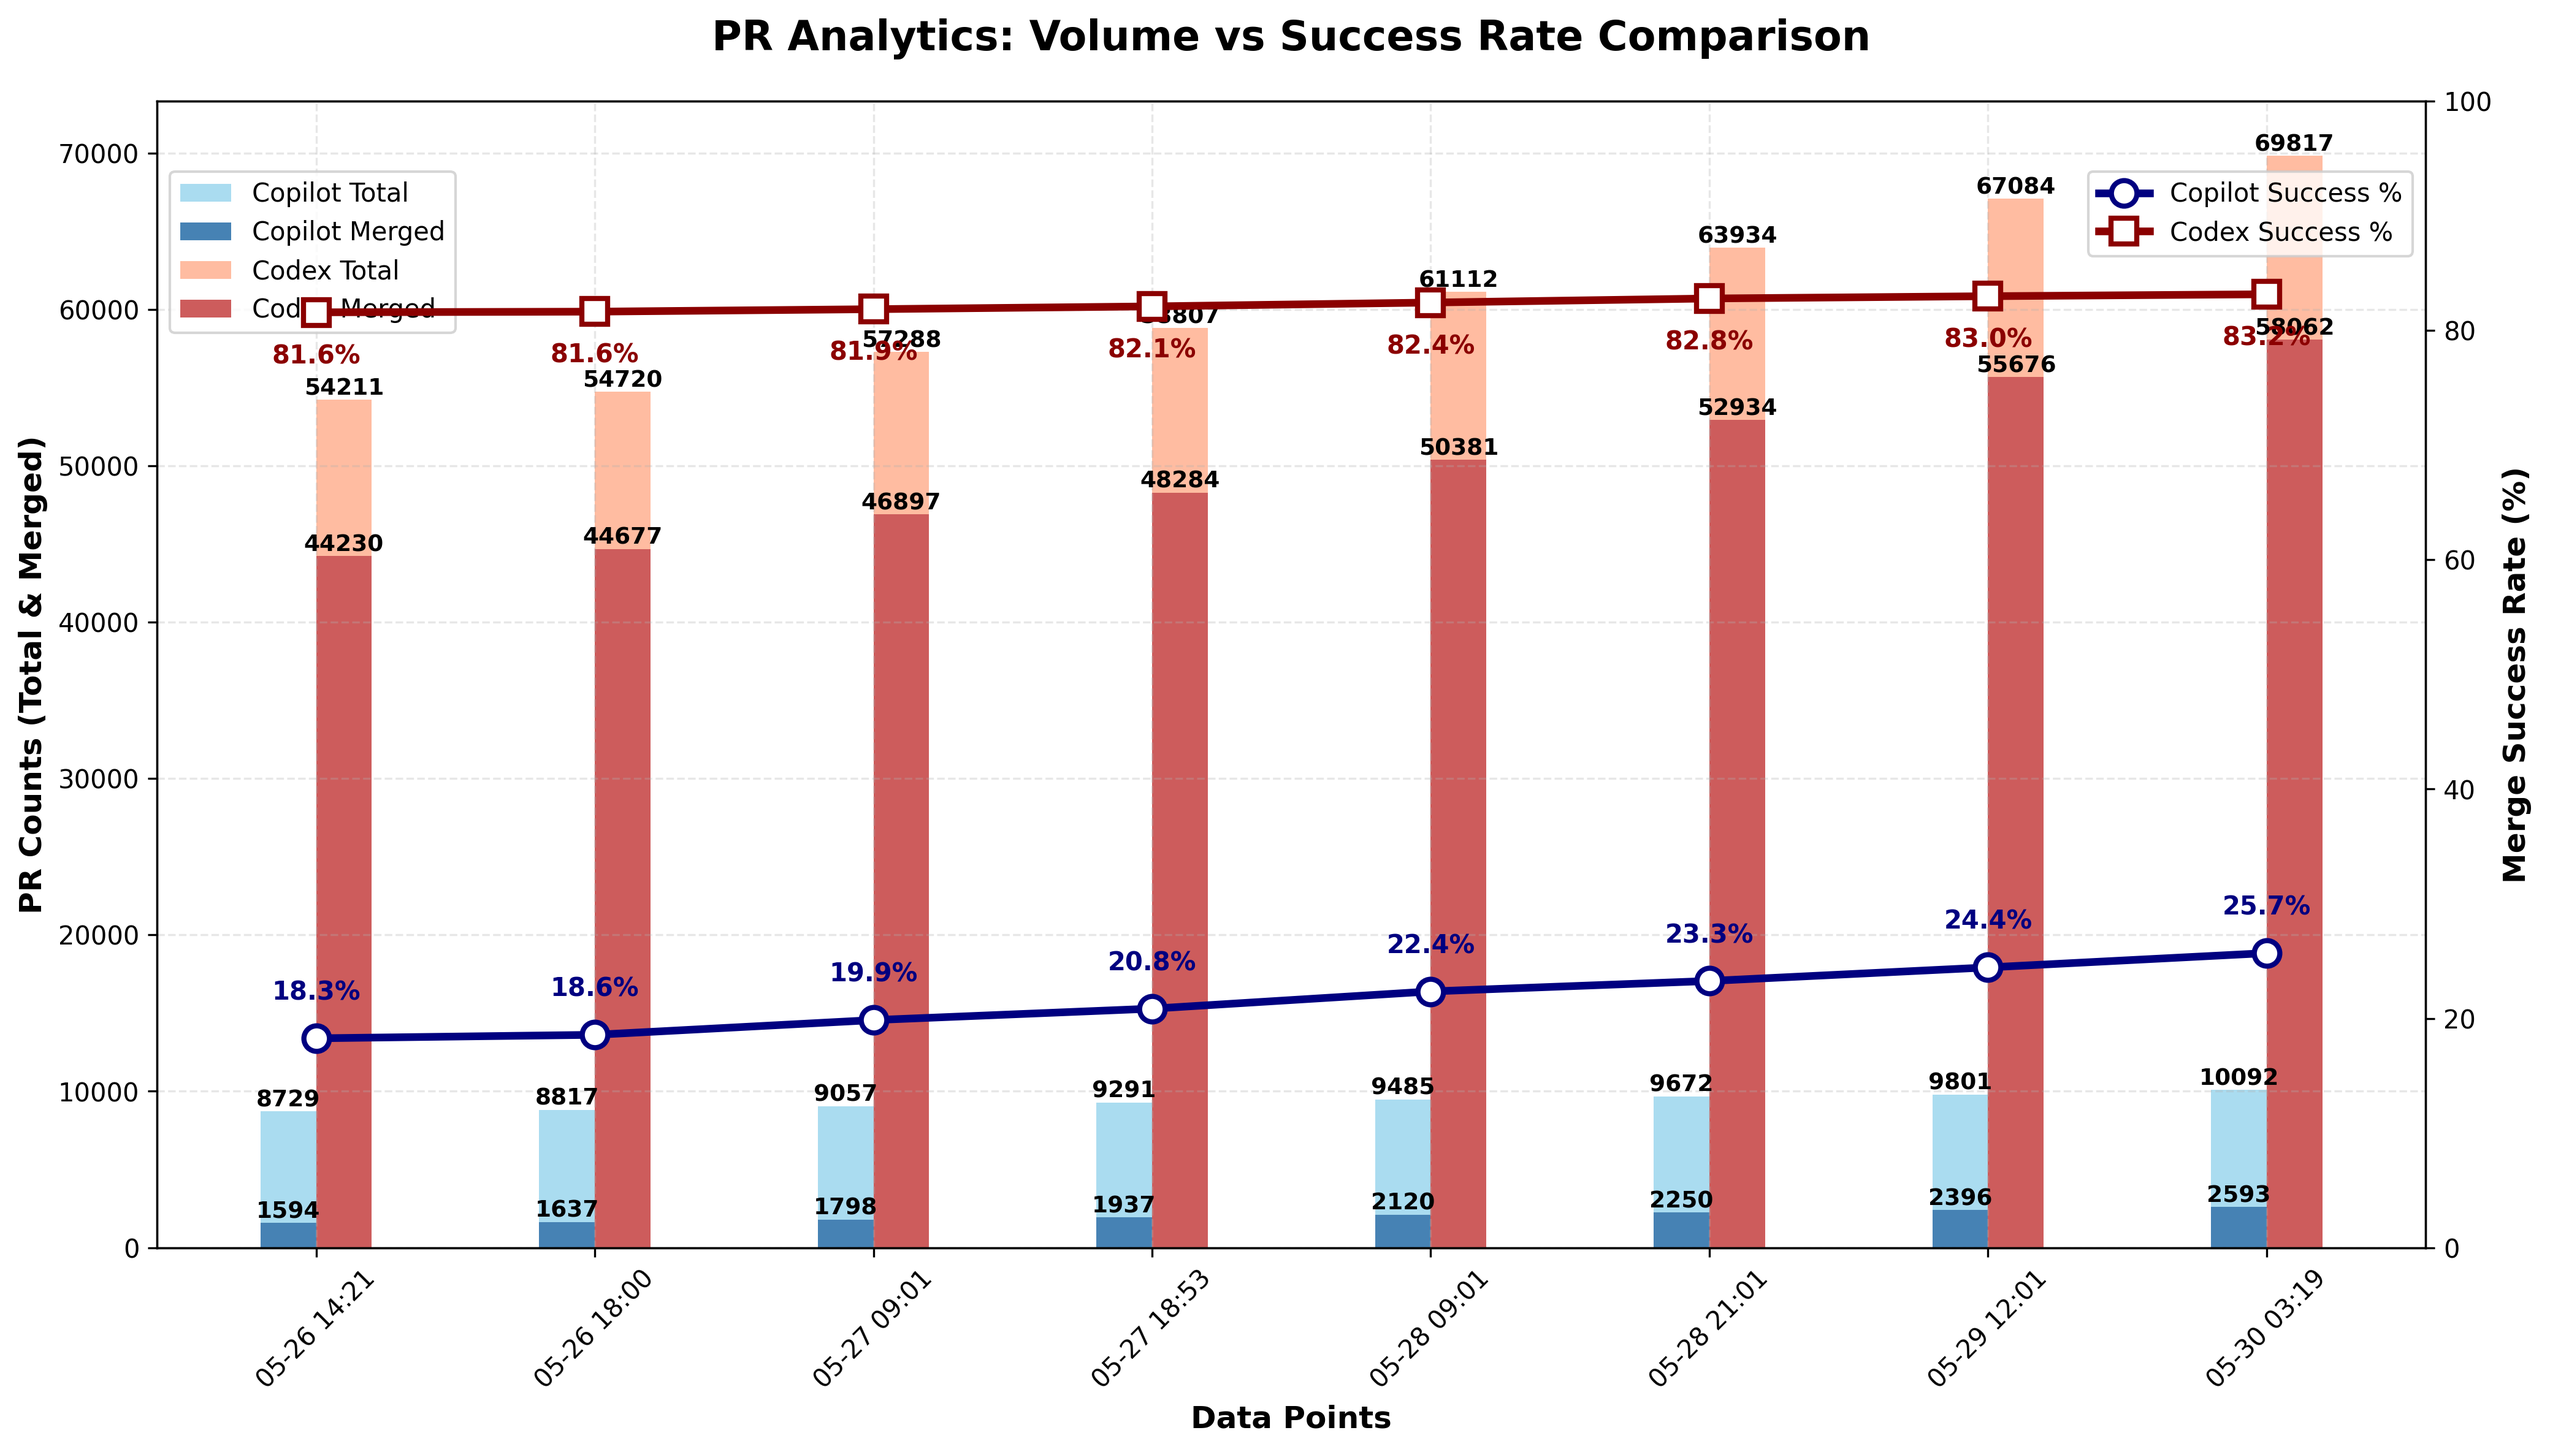
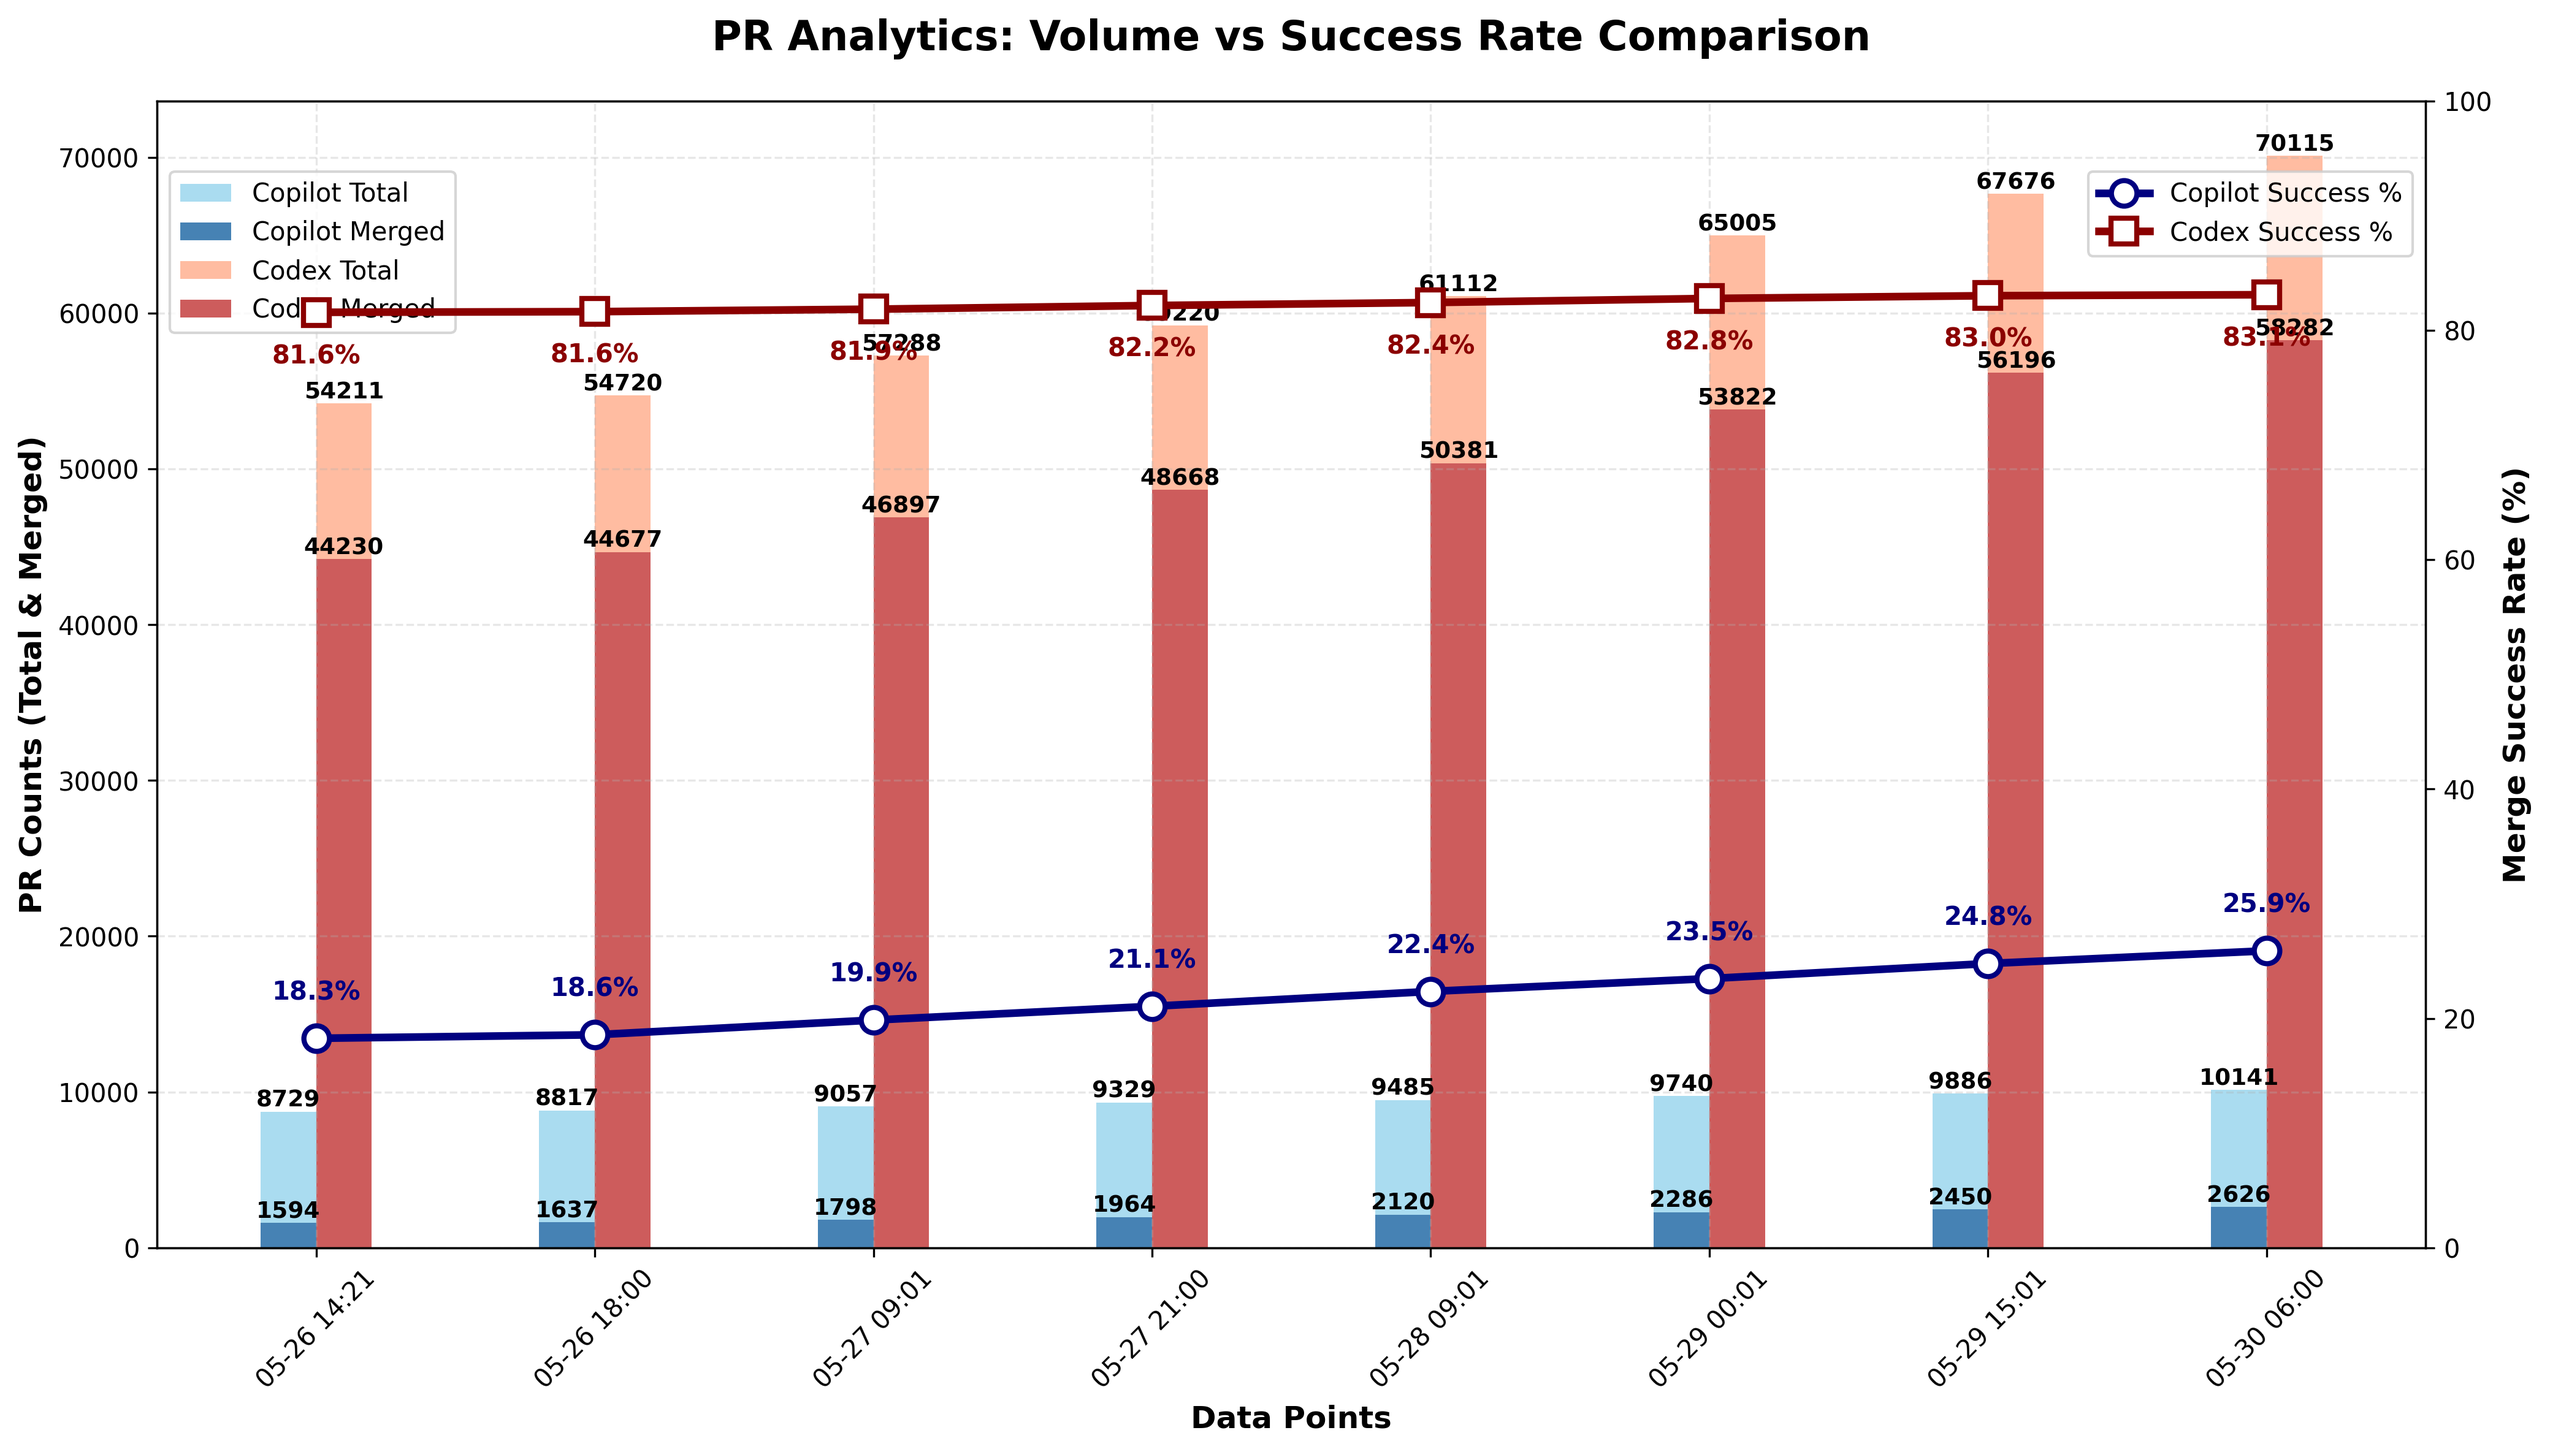
chore: update PR‑approval chart

diff --git a/docs/index.html b/docs/index.html
@@ -44,22 +44,22 @@
                 <tbody>
                     <tr>
                         <td>Copilot</td>
-                        <td>10,092</td>
-                        <td>2,593</td>
-                        <td>25.69%</td>
+                        <td>10,141</td>
+                        <td>2,626</td>
+                        <td>25.89%</td>
                     </tr>
                     <tr>
                         <td>Codex</td>
-                        <td>69,817</td>
-                        <td>58,062</td>
-                        <td>83.16%</td>
+                        <td>70,115</td>
+                        <td>58,282</td>
+                        <td>83.12%</td>
                     </tr>
                 </tbody>
             </table>
         </section>
 
         <footer>
-            <p>Last updated: <span id="last-updated">May 30, 2025 03:19 UTC</span></p>
+            <p>Last updated: <span id="last-updated">May 30, 2025 06:00 UTC</span></p>
             <p><a href="https://github.com/aavetis/ai-pr-watcher">View on GitHub</a></p>
         </footer>
     </div>

diff --git a/README.md b/README.md
@@ -19,5 +19,5 @@ Explore the GitHub search queries used:
 
 | Project | Total PRs | Merged PRs | Merge Rate |
 | ------- | --------- | ---------- | ---------- |
-| Copilot | 10,092 | 2,593 | 25.69% |
-| Codex   | 69,817 | 58,062 | 83.16% |
+| Copilot | 10,141 | 2,626 | 25.89% |
+| Codex   | 70,115 | 58,282 | 83.12% |
